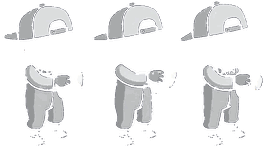
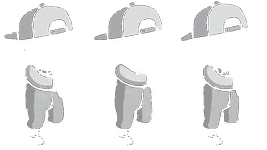
fix(art): mechanic stands at the corner of its own pad; tools and gloves keep their colour; no pink fringe
split_worker.py drops matte-pink pixels on the figure's edge, downscales with premultiplied
alpha, and only tints gray pieces that start left of the hand (not the wrench or spray mist).

Claude-Session: https://claude.ai/code/session_01TYep6my4PBxgSJHqj9FDLV

diff --git a/apps/client/src/scenes/GarageScene.ts b/apps/client/src/scenes/GarageScene.ts
@@ -23,7 +23,7 @@ const VIP_GOLD = 0xe9b949;
 const WORKER_FRAMES: Record<WorkerAction, number> = { scrub: 3, wrench: 2, spray: 5 };
 const WORKER_FPS = 8;
 /** Where the mechanic stands, relative to the centre of the car's pad (on the car's left, facing it). */
-const WORKER_OFFSET = { x: -58, y: 10 };
+const WORKER_OFFSET = { x: -52, y: 26 };
 /** Showcase spot for the player's own car (back corner: clear of the queue and of every bay's tap area). */
 const SHOWCASE = { x: 0, y: 0 };
 const STICKER_GLYPH: Record<string, string> = { number: '7', bolt: '⚡', star: '★' };
@@ -400,7 +400,7 @@ export class GarageScene extends Phaser.Scene {
       if (helperDef) {
         // name badge at the front corner of the pad: this bay works on its own
         const badge = this.label(
-          centre.x,
+          centre.x + 22, // clear of the mechanic standing at the pad's left corner
           centre.y + 30,
           `${helperDef.face} ${helperDef.name.split(' ')[0]} · auto`,
           '#caffbf',

diff --git a/tools/split_worker.py b/tools/split_worker.py
@@ -24,7 +24,61 @@ def is_cloth(r: int, g: int, b: int, a: int) -> bool:
     return max(r, g, b) - min(r, g, b) < 12 and (r + g + b) / 3 > 135 and b >= r - 3
 
 
-MAX_HOLE_SHARE = 0.005
+MAX_HOLE_SHARE = 0.01  # the broken sheets were 5-10%; clean ones stay well under 1%
+# the tool (wrench, spray mist) sits right of the hand: only gray pieces that start left of this
+# share of the figure's width are overalls/cap
+CLOTH_MAX_X = 0.6
+
+
+def is_matte(r: int, g: int, b: int) -> bool:
+    """Magenta left over from the animation's matte background."""
+    return r > g + 30 and b > g + 30
+
+
+def defringe(frame: Image.Image) -> Image.Image:
+    """Drops matte-coloured pixels on the figure's edge (a pink fringe around the outline)."""
+    out = frame.copy()
+    for _ in range(2):
+        alpha = out.getchannel("A")
+        edge = ImageChops.subtract(alpha, alpha.filter(ImageFilter.MinFilter(3)))
+        px, ep = out.load(), edge.load()
+        for y in range(out.height):
+            for x in range(out.width):
+                if ep[x, y] and is_matte(*px[x, y][:3]):
+                    px[x, y] = (0, 0, 0, 0)
+    return out
+
+
+def cloth_mask(frame: Image.Image) -> Image.Image:
+    """Overalls and cap: light-gray pieces left of the hand, at full resolution."""
+    mask = Image.new("L", frame.size)
+    fp, mp = frame.load(), mask.load()
+    for y in range(frame.height):
+        for x in range(frame.width):
+            if is_cloth(*fp[x, y]):
+                mp[x, y] = 255
+    left, _, right, _ = frame.getbbox()
+    limit = left + (right - left) * CLOTH_MAX_X
+    # label each connected gray piece and keep it only if it starts left of the limit
+    label = 1
+    sums: dict[int, list[int]] = {}
+    for y in range(frame.height):
+        for x in range(frame.width):
+            if mp[x, y] == 255:
+                label = label % 254 + 1
+                ImageDraw.floodfill(mask, (x, y), label)
+    for y in range(frame.height):
+        for x in range(frame.width):
+            v = mp[x, y]
+            if v and x < sums.setdefault(v, [x])[0]:
+                sums[v][0] = x
+    keep = {v for v, (min_x,) in sums.items() if min_x < limit}
+    return mask.point(lambda v: 255 if v in keep else 0)
+
+
+def shrink(img: Image.Image, size: tuple[int, int]) -> Image.Image:
+    """Downscales with premultiplied alpha, so see-through pixels don't bleed into the edges."""
+    return img.convert("RGBa").resize(size, Image.LANCZOS).convert("RGBA")
 
 
 def hole_share(frame: Image.Image) -> float:
@@ -44,7 +98,7 @@ def main() -> None:
     n = sheet.width // fh
     keep = [int(i) for i in frames_arg.split(",")]
     assert all(0 <= i < n for i in keep), f"sheet has {n} frames"
-    frames = [sheet.crop((i * fh, 0, (i + 1) * fh, fh)) for i in keep]
+    frames = [defringe(sheet.crop((i * fh, 0, (i + 1) * fh, fh))) for i in keep]
     for i, f in zip(keep, frames):
         share = hole_share(f)
         if share > MAX_HOLE_SHARE:
@@ -64,14 +118,8 @@ def main() -> None:
     for k, f in enumerate(frames):
         big = f.crop(box)
         # mask at full resolution, grown by a pixel and downscaled smoothly, so outline edges don't speckle
-        mask = Image.new("L", big.size)
-        bp, mp = big.load(), mask.load()
-        for y in range(big.height):
-            for x in range(big.width):
-                if is_cloth(*bp[x, y]):
-                    mp[x, y] = 255
-        mask = mask.filter(ImageFilter.MaxFilter(3)).resize((w, TARGET_H), Image.LANCZOS)
-        small = big.resize((w, TARGET_H), Image.LANCZOS)
+        mask = cloth_mask(big).filter(ImageFilter.MaxFilter(3)).resize((w, TARGET_H), Image.LANCZOS)
+        small = shrink(big, (w, TARGET_H))
         full.paste(small, (k * w, 0))
         layer = small.copy()
         layer.putalpha(ImageChops.multiply(small.getchannel("A"), mask))
